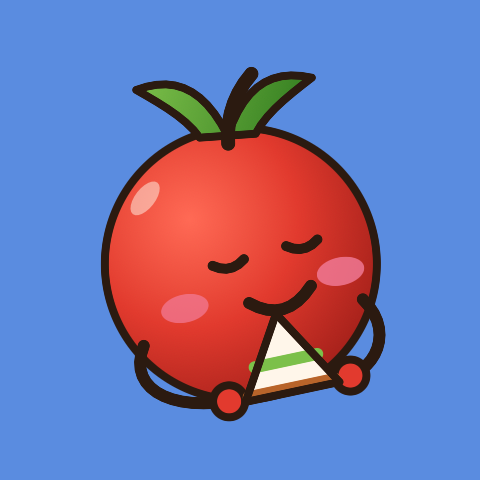
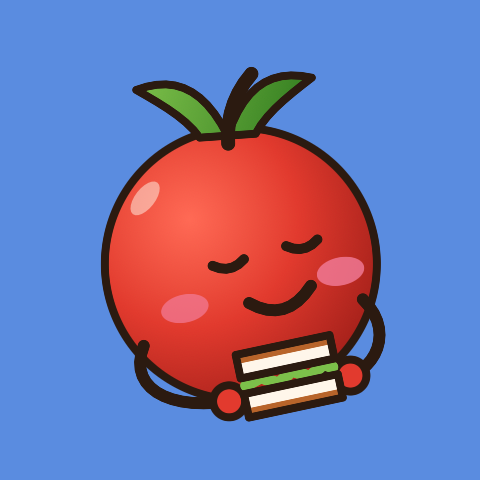
fix: draw lunch as stacked slices, not a wedge

Changed region(s): [[0.4688, 0.6562, 0.7188, 0.875]]

diff --git a/macos/Throwntom/Sources/ThrowntomUI/Mascot/HeldPropView.swift b/macos/Throwntom/Sources/ThrowntomUI/Mascot/HeldPropView.swift
@@ -79,19 +79,30 @@ enum HeldProps {
     path.circle(units, 93.5, 88, 0.9)
   }
 
-  /// A sandwich held between both hands: a triangle of bread with the filling along the cut.
+  /// A sandwich held between both hands: two slices of bread with the filling between them.
+  /// Stacked rather than cut on the diagonal, which read as a pizza slice.
   static let sandwichBread = DesignShape { path, units in
-    path.polygon(units, [(44, 90), (56, 70), (68, 90)])
+    path.polygon(units, [(44, 78), (68, 78), (68, 84), (44, 84)])
+    path.polygon(units, [(44, 88), (68, 88), (68, 94), (44, 94)])
   }
 
+  /// Zigzagged so the filling is a filling and not a third slice.
   static let sandwichFilling = DesignShape { path, units in
-    path.move(units, 48, 82)
-    path.line(units, 64, 82)
+    path.move(units, 45, 86)
+    path.line(units, 49, 84.8)
+    path.line(units, 53, 87.2)
+    path.line(units, 57, 84.8)
+    path.line(units, 61, 87.2)
+    path.line(units, 65, 84.8)
+    path.line(units, 67, 86)
   }
 
+  /// The baked crust: the top of the upper slice and the base of the lower one.
   static let sandwichCrust = DesignShape { path, units in
-    path.move(units, 45, 89)
-    path.line(units, 67, 89)
+    path.move(units, 45, 78.8)
+    path.line(units, 67, 78.8)
+    path.move(units, 45, 93.2)
+    path.line(units, 67, 93.2)
   }
 
   /// The "!" beside a raised hand.
